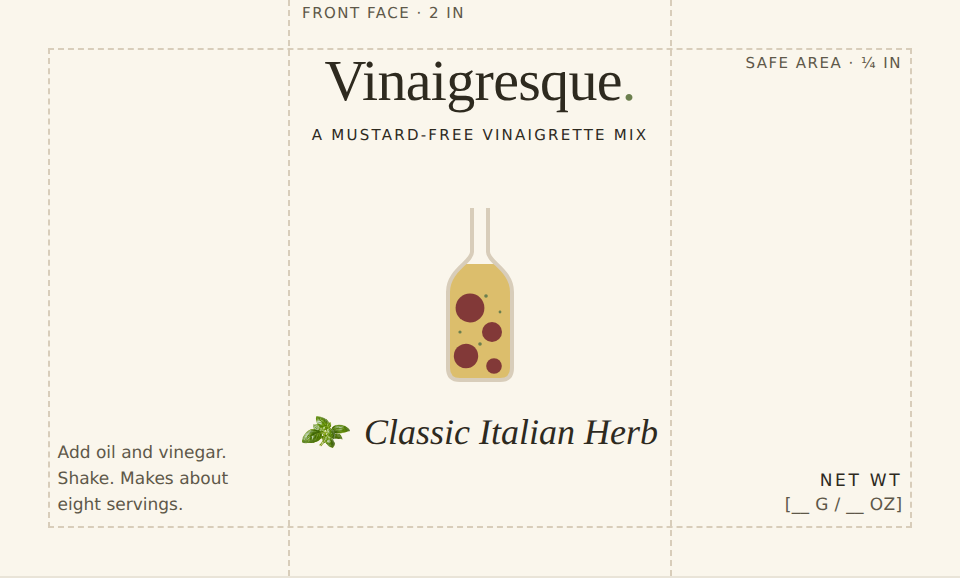
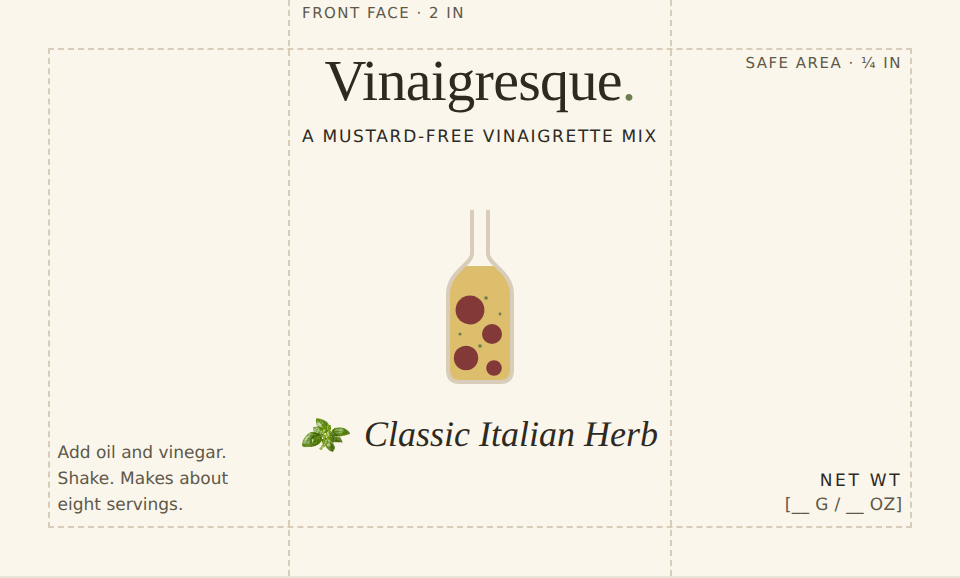
Address Codex review: hold the front direction's smallest type at the 6 pt floor
Claude-Session: https://claude.ai/code/session_01BXvbD3F4Bo1n8Nj1vxzU99

diff --git a/design/packaging/round-1/front.html b/design/packaging/round-1/front.html
@@ -142,7 +142,7 @@
   .jar .g-face { left: calc(var(--in) * 1.5); width: calc(var(--in) * 2); }
   .jar .front { position: absolute; left: calc(var(--in) * 1.5); width: calc(var(--in) * 2); top: 0; bottom: 0; padding-top: calc(var(--in) * .28); }
   .jar .mark   { font-size: 29px; }
-  .jar .desc   { font-size: 7.5px; margin-top: 7px; letter-spacing: .15em; }
+  .jar .desc   { font-size: 8.5px; margin-top: 7px; letter-spacing: .1em; }
   .jar .cruet  { height: 112px; width: auto; margin-top: 10px; }
   .jar .flavor { font-size: 18px; gap: 7px; margin-top: 8px; }
   .jar .flavor img { width: 24px; height: 24px; }
@@ -169,7 +169,7 @@
     display: grid; place-items: center;
     font-size: 8px; letter-spacing: .12em; text-transform: uppercase; color: var(--muted); text-align: center; line-height: 1.4;
   }
-  .slot-box small { display: block; font-size: 7.5px; letter-spacing: .06em; text-transform: none; }
+  .slot-box small { display: block; font-size: 8px; letter-spacing: .06em; text-transform: none; }
   .back .slots .col { display: grid; gap: 10px; }
   .nutrition { height: calc(var(--in) * 2); }
   .distrib { height: calc(var(--in) * .6); }
